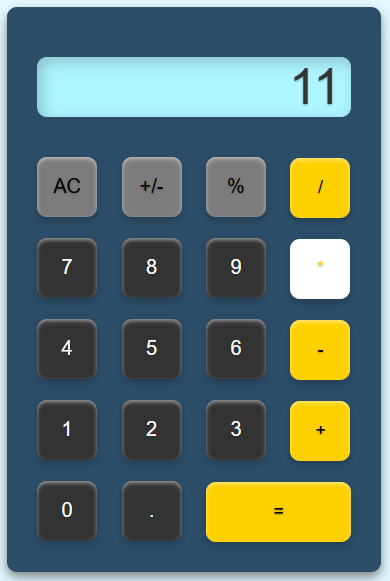
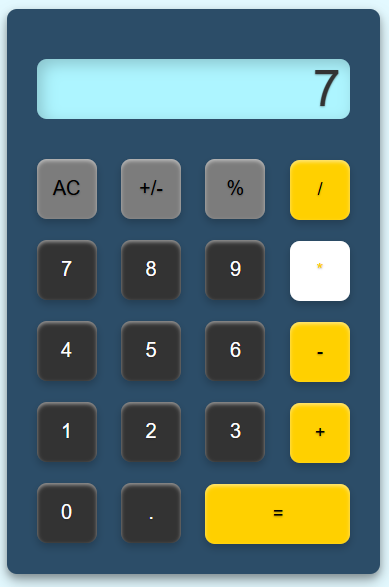
calc up 32

diff --git a/javascript/p1_calculator/README.md b/javascript/p1_calculator/README.md
@@ -48,12 +48,11 @@
 #### Ex. 2 
 ### Calculator using *Subtraction*
 
-* 99 - 66 = 33
-
+* 100 - 75 = 25
 <div style="display: flex; gap: 10px;">
-    <img src="img/subtraction_1.PNG" alt="99" title="99" width="200">
-    <img src="img/subtraction_2.PNG" alt="66" title="66" width="200">
-    <img src="img/subtraction_3.PNG" alt="33" title="33" width="200">    
+    <img src="img/subtraction_1.PNG" alt="100" title="100" width="200">
+    <img src="img/subtraction_2.PNG" alt="75" title="75" width="200">
+    <img src="img/subtraction_3.PNG" alt="25" title="25" width="200">    
 </div>
 
 #
@@ -61,12 +60,12 @@
 #### Ex. 3 
 ### Calculator using *Multiplication*
 
-* 11 x 3 = 33
+* 7 x 5 = 35
 
 <div style="display: flex; gap: 10px;">
-    <img src="img/multiplication_1.PNG" alt="11" title="11" width="200">
-    <img src="img/multiplication_2.PNG" alt="3" title="3" width="200">
-    <img src="img/multiplication_3.PNG" alt="33" title="33" width="200">    
+    <img src="img/multiplication_1.PNG" alt="7" title="7" width="200">
+    <img src="img/multiplication_2.PNG" alt="5" title="5" width="200">
+    <img src="img/multiplication_3.PNG" alt="35" title="35" width="200">    
 </div>
 
 #
@@ -74,12 +73,12 @@
 #### Ex. 4 
 ### Calculator using *Division*
 
-* 99 ÷ 3 = 33
+* 90 ÷ 10 = 9
 
 <div style="display: flex; gap: 10px;">
-    <img src="img/division_1.PNG" alt="99" title="99" width="200">
-    <img src="img/division_2.PNG" alt="3" title="3" width="200">
-    <img src="img/division_3.PNG" alt="33" title="33" width="200">    
+    <img src="img/division_1.PNG" alt="90" title="90" width="200">
+    <img src="img/division_2.PNG" alt="10" title="10" width="200">
+    <img src="img/division_3.PNG" alt="9" title="9" width="200">    
 </div>
 
 #
@@ -91,7 +90,7 @@
 #### Ex. 1
 ### Calculator using the "+/-" button
 
-* -33 + 66 = 33
+* -55 + 70 = 15
 
 <div style="display: flex; gap: 10px;">
     <img src="img/pos_neg_1.PNG" alt="-33" title="-33" width="200">
@@ -99,9 +98,33 @@
     <img src="img/pos_neg_3.PNG" alt="33" title="33" width="200">    
 </div>
 
+# 
 
+### Percentage Button
 
+* The percentage (%) button on a calculator allows users to quickly calculate percentages or convert numbers to their percentage value. When pressed, it often interprets the displayed number as a percentage of a previously entered value, making it useful for finding proportions, discounts, or interest rates in calculations. In standalone use, it can convert the displayed number into a percentage by dividing by 100, turning 50 into 0.5, for example. This versatile button simplifies common percentage-related calculations with a single tap.
 
+#### Ex. 1 
+### Calculator converting numbers into their percentage value
 
+<div style="display: flex; gap: 10px;">
+    <img src="img/percent_1.PNG" alt="25" title="25" width="200">
+    <img src="img/percent_2.PNG" alt=".25" title=".25" width="200">    
+</div>
+
+#
+
+#### Ex. 2 
+### Calculator using the "%" button in an equation
+
+* 75 x 3% = 2.25
+
+<div style="display: flex; gap: 10px;">
+    <img src="img/percent_1.PNG" alt="75" title="75" width="200">
+    <img src="img/percent_2.PNG" alt="3%" title="3%" width="200">
+    <img src="img/percent_3.PNG" alt="2.25" title="2.25" width="200">    
+</div>
+
+#
 
 
